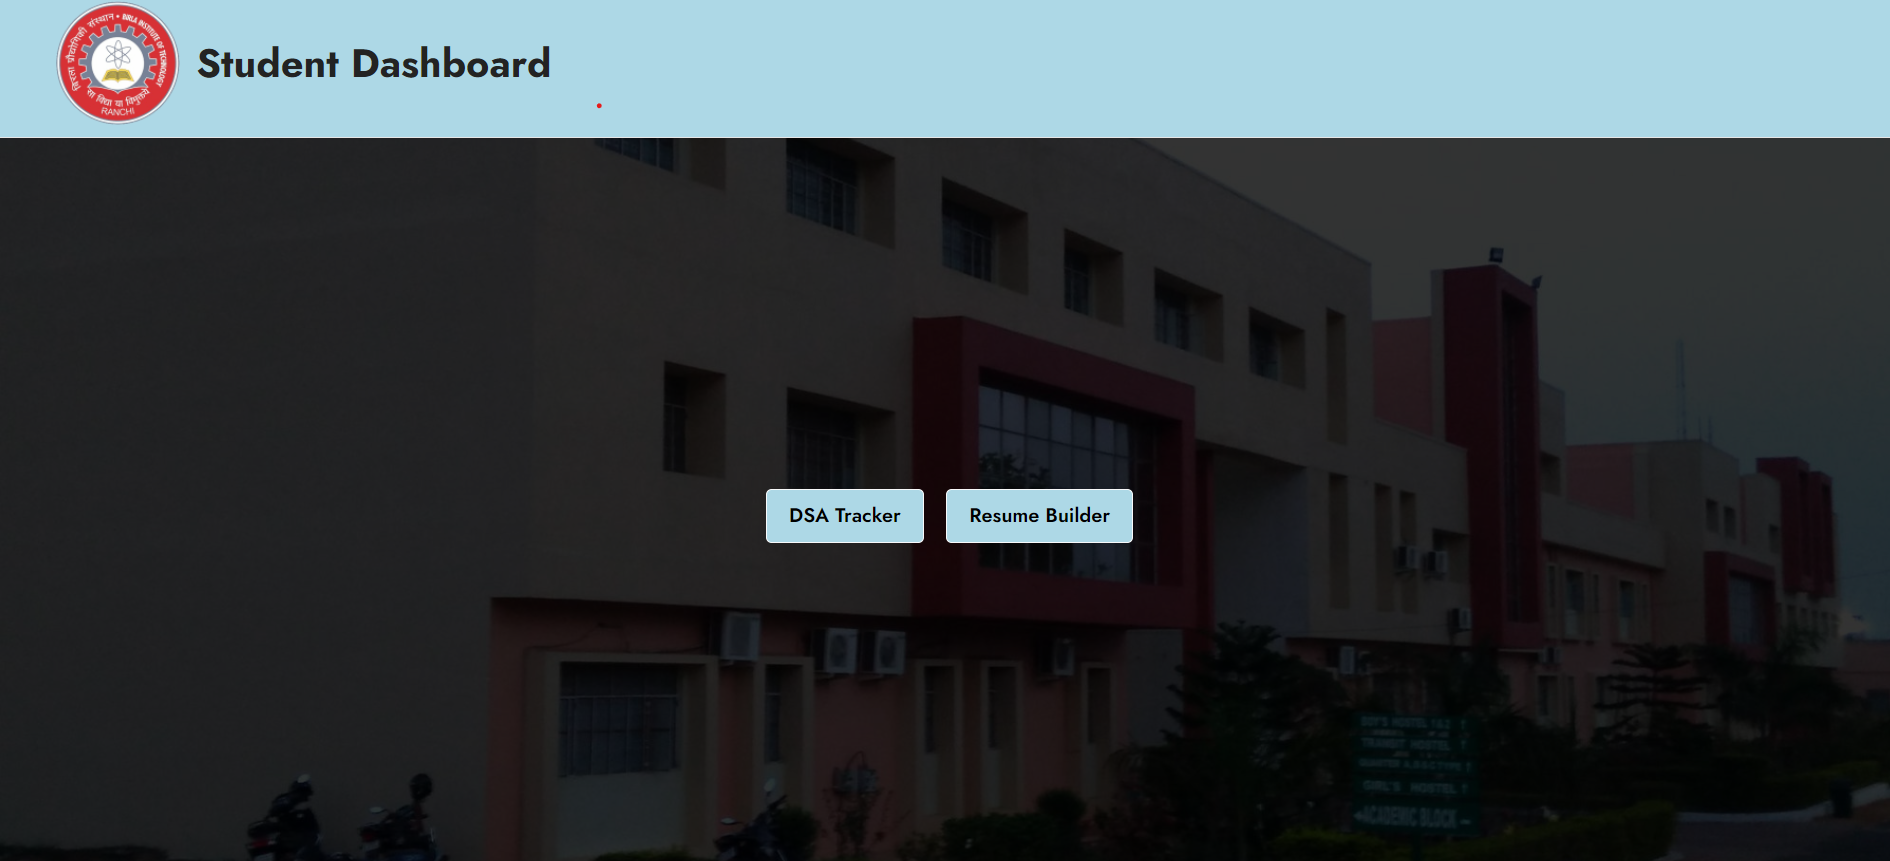
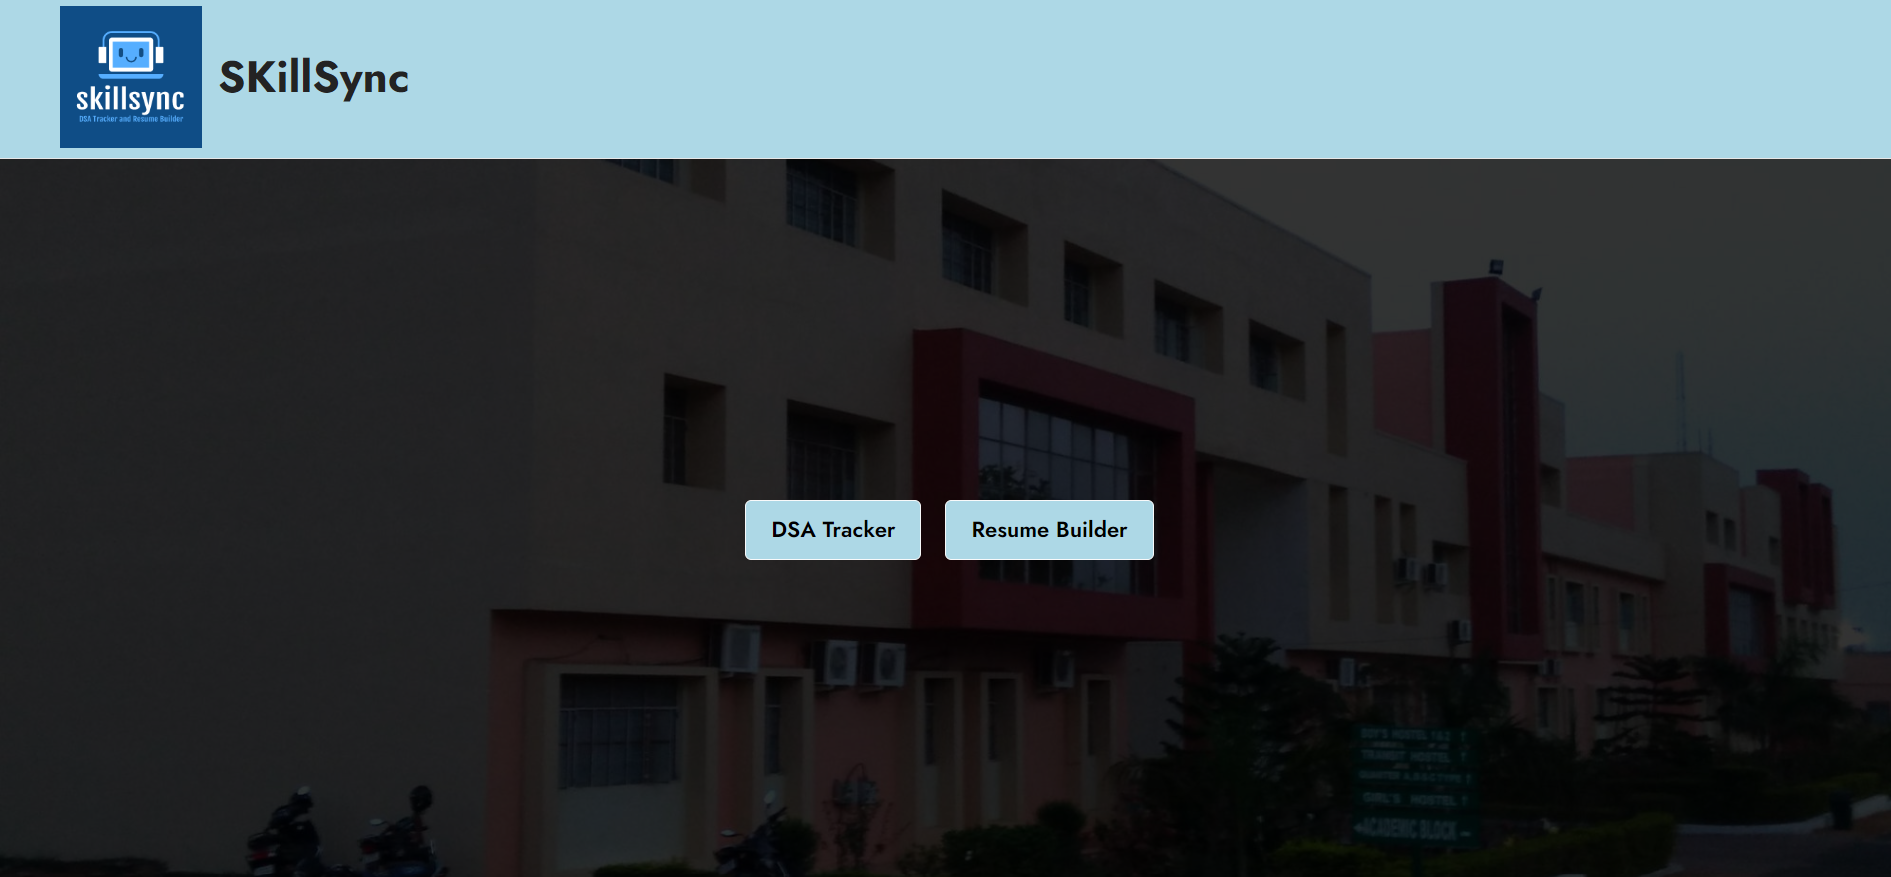
Add files via upload

diff --git a/index.html b/index.html
@@ -10,7 +10,7 @@
         <meta property="og:image" content="">
         <meta name="twitter:title" content="Home">
         <meta name="viewport" content="width=device-width, initial-scale=1, minimum-scale=1">
-        <link rel="shortcut icon" href="assets/images/6-bit-logo-121x121.png" type="image/x-icon">
+        <link rel="shortcut icon" href="assets/images/logo.png" type="image/x-icon">
         <meta name="description" content="">
         
         
@@ -41,10 +41,10 @@
             <div class="navbar-brand">
                 <span class="navbar-logo">
                     <a href="">
-                        <img src="assets/images/6-bit-logo-121x121.png" alt="Student Dashboard" style="height: 7.1rem;">
+                        <img src="assets/images/logo.png" alt="Student Dashboard" style="height: 7.1rem;">
                     </a>
                 </span>
-                <span class="navbar-caption-wrap"><a class="navbar-caption text-black display-5" href="https://mobiri.se">Student Dashboard</a></span>
+                <span class="navbar-caption-wrap"><a class="navbar-caption text-black display-5" href="https://mobiri.se">SKillSync</a></span>
             </div>
             
             <div class="collapse navbar-collapse" id="navbarSupportedContent">
